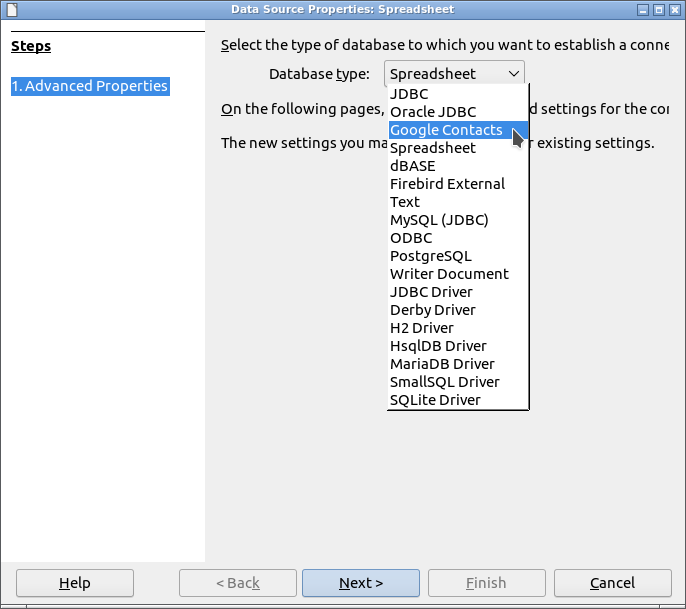
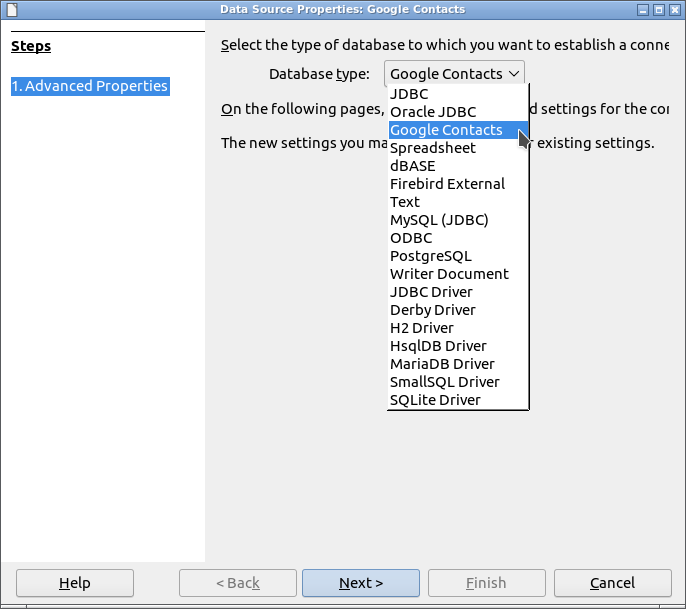
README*.md update

Changed region(s): [[0.3061, 0.0, 0.6735, 0.0312], [0.5816, 0.0936, 0.7347, 0.156], [0.7347, 0.2184, 0.7959, 0.2496]]

diff --git a/README_fr.md b/README_fr.md
@@ -89,28 +89,32 @@ Dans LibreOffice / OpenOffice aller à: **Fichier -> Assistants -> Source de don
 
 ![gContactOOo screenshot 1][26]
 
-À l'étape: 1. Type de carnet d'adresses:
-- sélectionner: Autre source de données externes
-- cliquez sur: Suivant (bouton)
+À l'étape: 1. **Type de carnet d'adresses**:
+- Sélectionner: **Autre source de données externes**.
+- Cliquez sur le bouton : **Suivant**.
 
 ![gContactOOo screenshot 2][27]
 
-À l'étape: 2. Paramètres de Connexion:
-- cliquez sur: Paramètres (bouton)
+À l'étape: 2. **Paramètres de Connexion**:
+- Cliquez sur le bouton: **Paramètres**.
 
 ![gContactOOo screenshot 3][28]
 
+Un nouvel assistant s'ouvre. **Propriétés de la source de données**.
+
+A l'étape: 1. **Propriétés avancées**.  
 Dans Type de base de données:
-- sélectionner: Contacts Google
-- cliquez sur: Suivant (bouton)
+- Sélectionner: **Contacts Google**.
+- Cliquez sur le bouton: **Suivant**.
 
 ![gContactOOo screenshot 4][29]
 
-Dans Général: URL de la source de données:
-- mettre: votre compte Google (c'est-à-dire: votre_compte@gmail.com)
+A l'étape: 2. **Paramètres de connexion**.  
+Dans Général: Entrer ici la chaîne de connexion spécifique au SGDB / pilote.
+- Mettre votre compte Google (ie: votre_compte@gmail.com)
 
 Puis:
-- cliquez sur: Tester la connexion (bouton)
+- Cliquez sur le bouton: **Tester la connexion**.
 
 ![gContactOOo screenshot 5][30]
 
@@ -118,17 +122,21 @@ Après avoir autorisé l'application [OAuth2OOo][16] à accéder à vos contacts
 
 ![gContactOOo screenshot 6][31]
 
-Si la connexion a été etablie, vous pouvez terminer cet assistant avec le bouton Terminer
+Si la connexion a été etablie, vous pouvez terminer cet assistant avec le bouton **Terminer**.
 
 ![gContactOOo screenshot 7][32]
 
+A l'étape: 3. **Sélection de table**.  
 Si votre source de données comporte plusieurs tables, il vous sera demandé de sélectionner la table principale.  
-Dans ce cas sélectionnez la table: **Tous mes contacts**.
+Dans ce cas sélectionnez la table: **Tous mes contacts**. Si nécessaire et avant toute connexion il est possible de renommer le nom de la table principale dans: **Outils -> Options -> Internet -> gContactOOo -> Nom de la table principale**.
 
+A l'étape: 4. **Assignation de champ**.  
 Si nécessaire il est possible de renommer les noms des colonnes de la source de données à l'aide du bouton: **Assignation de champ**.  
-Veuillez poursuivre cet assistant par le bouton: Suivant
+Veuillez poursuivre cet assistant par le bouton: **Suivant**.
 
 ![gContactOOo screenshot 8][33]
+
+A l'étape: 5. **Titre de source de données**.
 
 Il faut créer un fichier odb. Pour cela vous devez:
 - **Décocher la case**: Intégrer cette définition du carnet d'adresses dans le document actuel.

diff --git a/README.md b/README.md
@@ -89,28 +89,32 @@ In LibreOffice / OpenOffice go to: **File -> Wizards -> Address Data Source...**
 
 ![gContactOOo screenshot 1][26]
 
-In step: 1. Address Book Type:
-- select: Other external data source
-- click on: Next(Button)
+In step: **1.Address Book Type**:
+- Select: **Other external data source**.
+- Click button: **Next**.
 
 ![gContactOOo screenshot 2][27]
 
-In step: 2. Connection Settings:
-- click on: Settings(Button)
+In step: **2.Connection Settings**:
+- Click button: **Settings**.
 
 ![gContactOOo screenshot 3][28]
 
+A new wizard opens. **Data source properties**.  
+
+In step: **1.Advanced Properties**.  
 In Database type list:
-- select: Google Contacts
-- click on: Next(Button)
+- Select: **Google Contacts**.
+- Click button: **Next**.
 
 ![gContactOOo screenshot 4][29]
 
-In General: Datasource Url:
-- put: your Google account (ie: your_account@gmail.com)
+In step: **2.Connection Settings**.  
+In General: Enter the DBMS/driver-specific connection string here.
+- Put your Google account (ie: your_account@gmail.com)
 
 Then:
-- click on: Test connection (button)
+- Click button: **Test connection**.
 
 ![gContactOOo screenshot 5][30]
 
@@ -118,17 +122,21 @@ After authorizing the [OAuth2OOo][16] application to access your Contacts, norma
 
 ![gContactOOo screenshot 6][31]
 
-If the connection has been established, you can complete this wizard with the Finish button
+If the connection has been established, you can complete this wizard with the **Finish** button.
 
 ![gContactOOo screenshot 7][32]
 
+In step: **3.Table Selection**.  
 If your data source has multiple tables, you will be asked to select the primary table.  
-In this case select the table: **All my contacts**.
+In this case select the table: **All my contacts**. If necessary and before any connection it is possible to rename the main table name in: **Tools -> Options -> Internet -> gContactOOo -> Main table name**.
 
+In step: **4.Field Assignment**.  
 If necessary it is possible to rename the names of the columns of the data source using the button: **Field Assignment**.  
-Please continue this wizard with the button: Next
+Please continue this wizard with the button: **Next**.
 
 ![gContactOOo screenshot 8][33]
+
+In step: **5.Data Source Title**.
 
 You must create an odb file. To do this you must:
 - **Uncheck the box**: Embed this address book definition in the current document.
